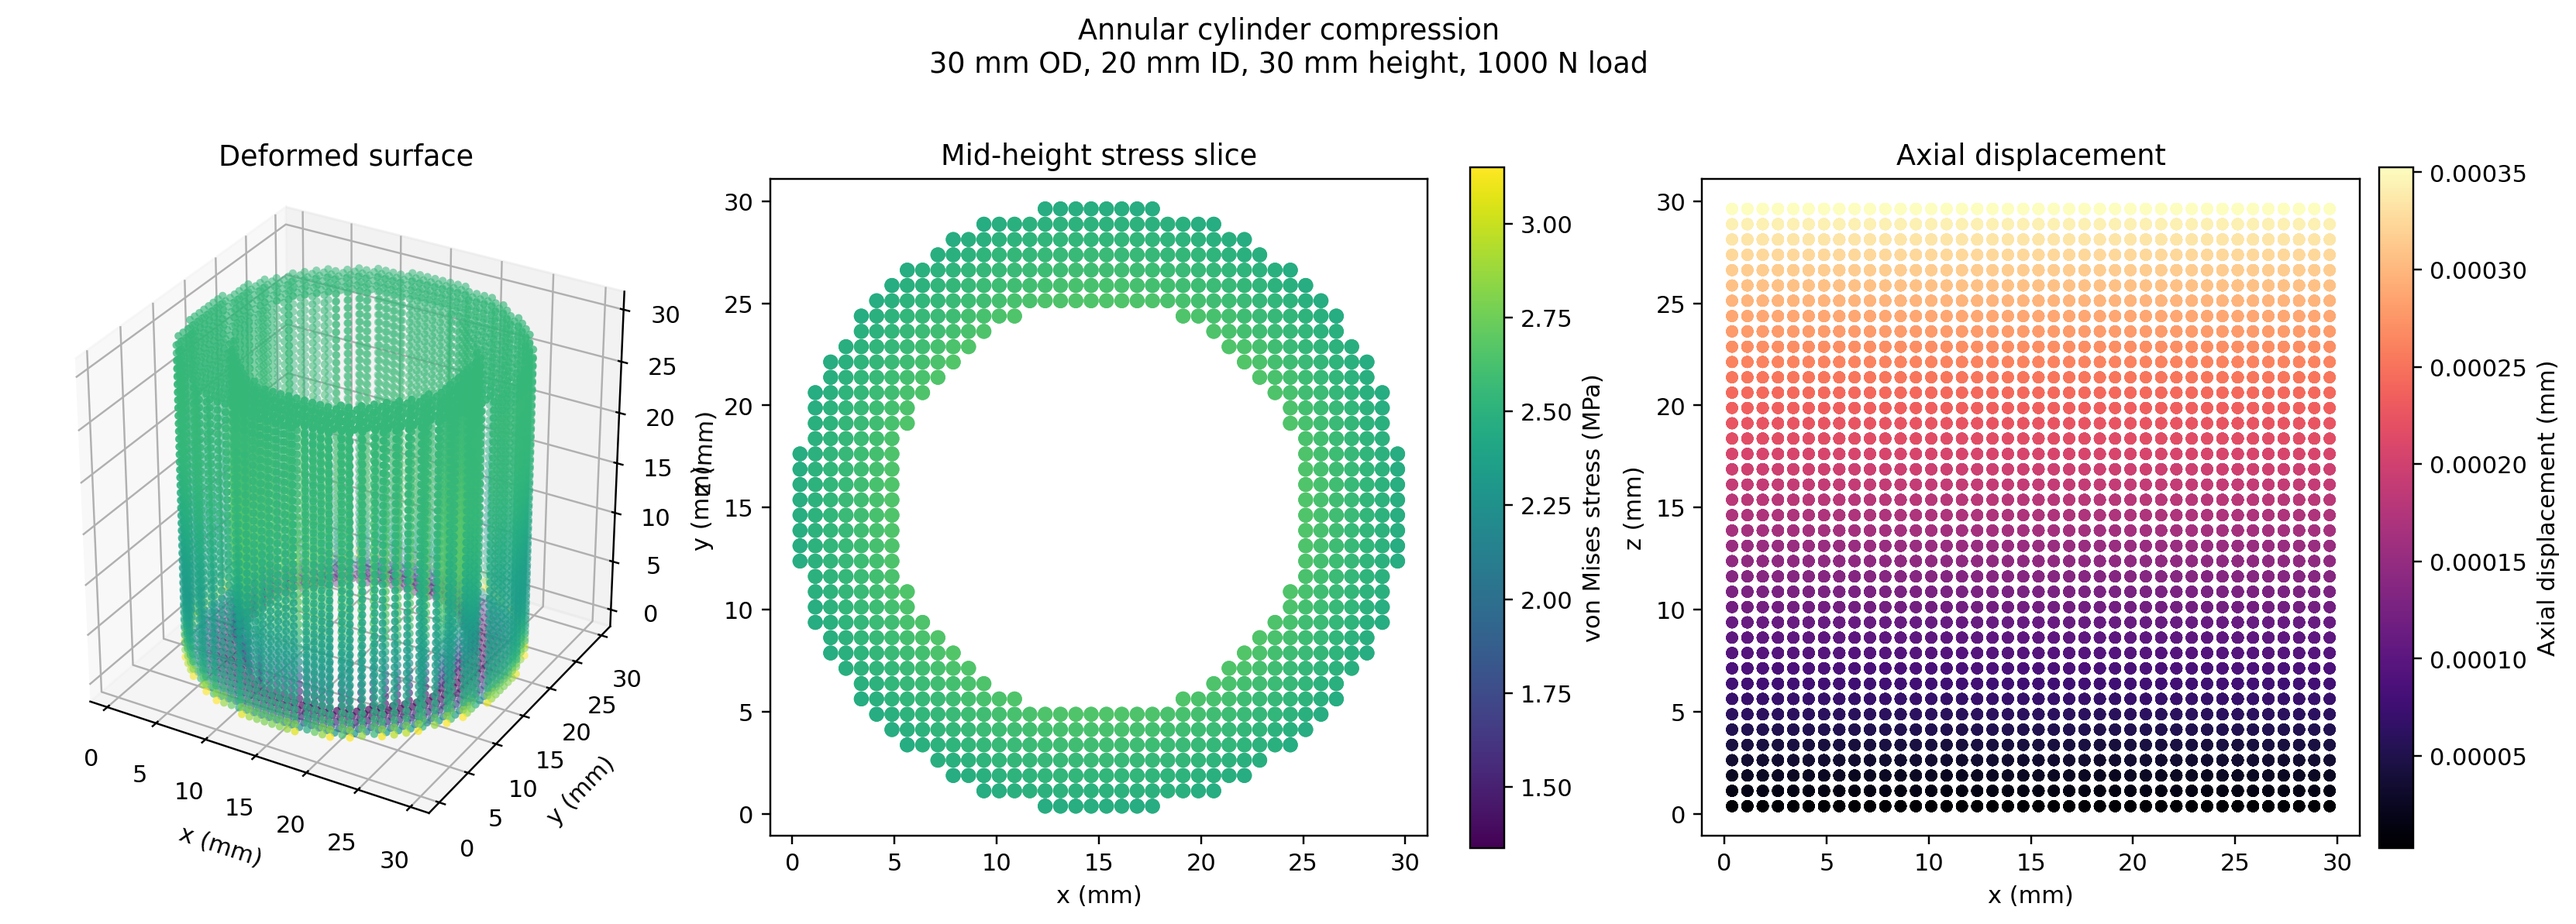
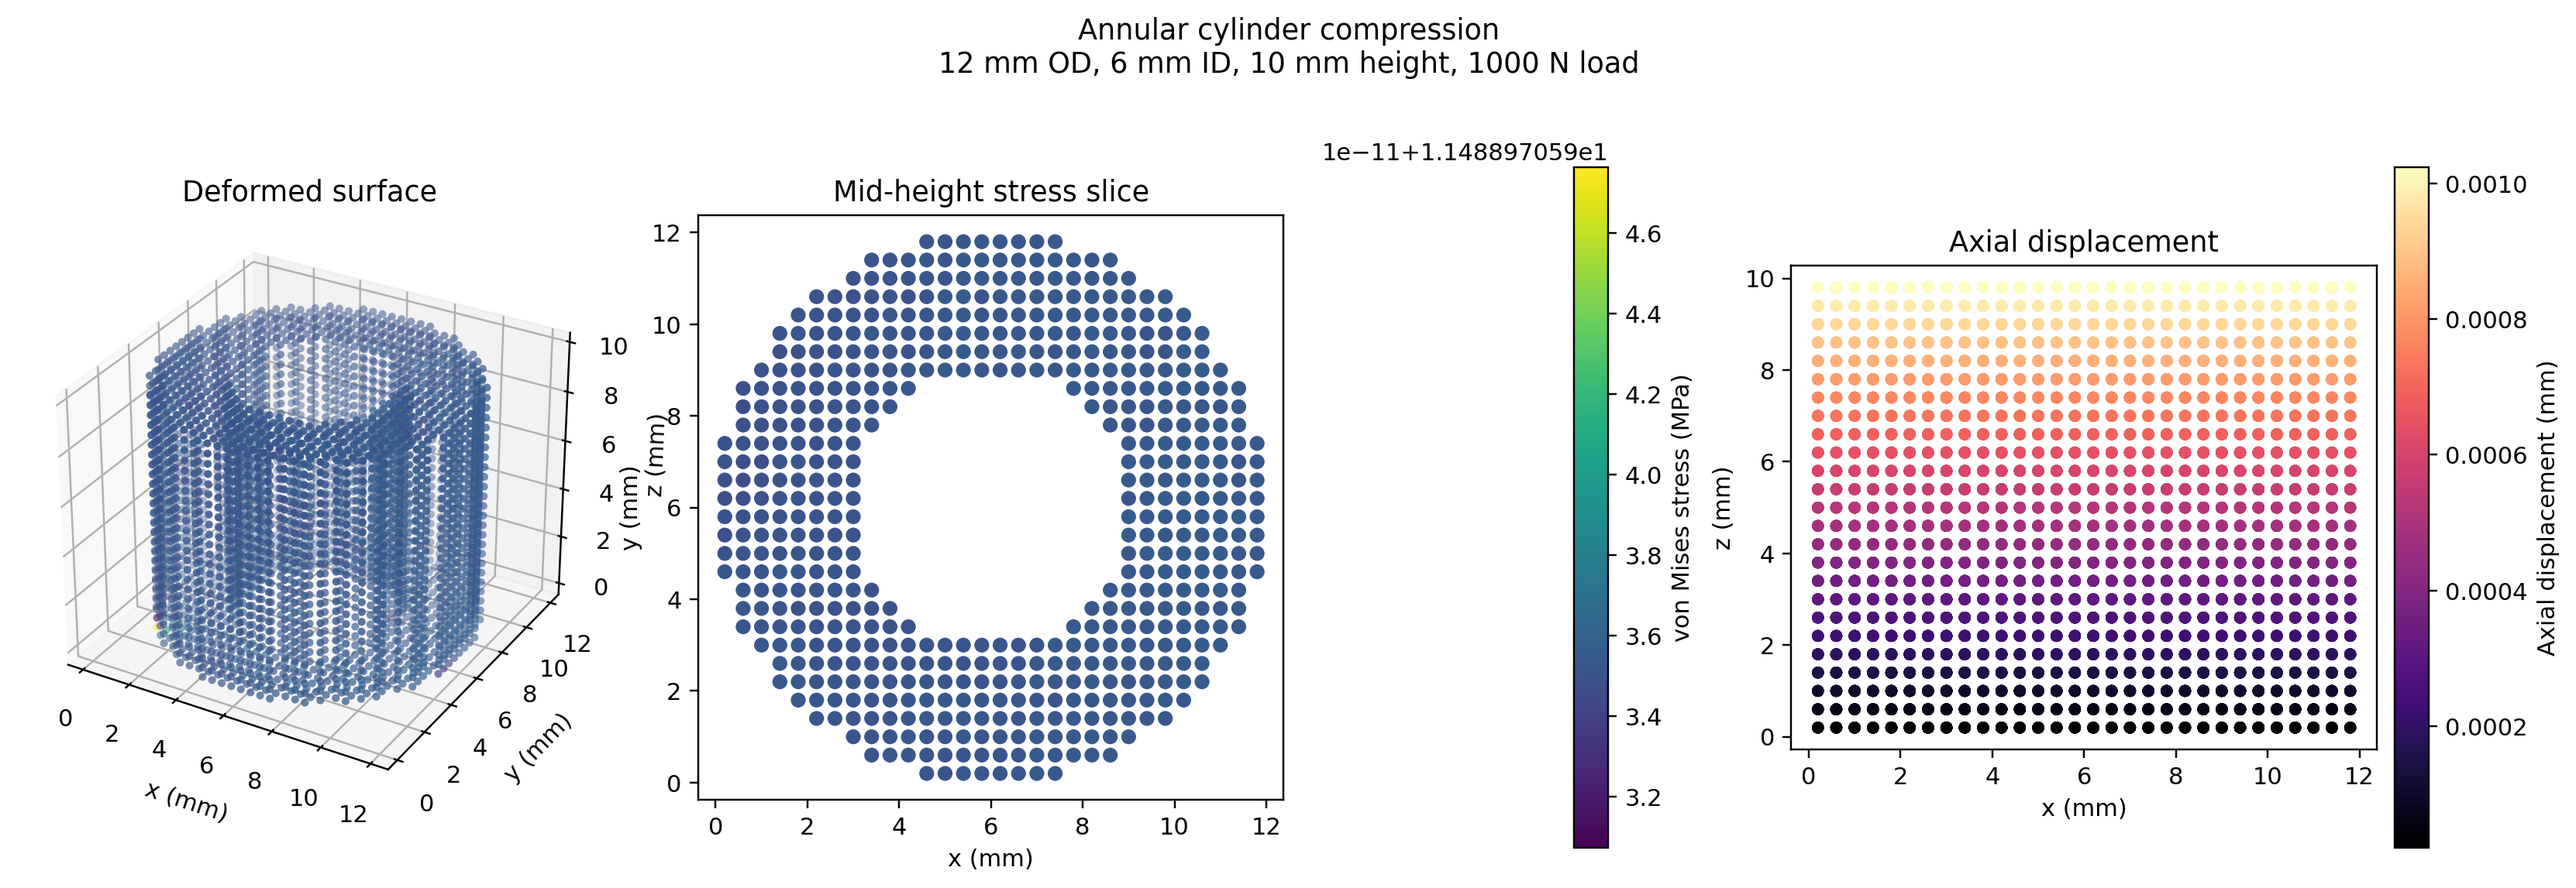
Add error handling to fem-analysis CLI and update cage geometry
- Wrap run_annular_cylinder_demo in try/except so solver crashes print
  a traceback instead of silently exiting
- Update default FEA target to lumbar cage geometry: OD=12mm, ID=6mm, H=10mm

diff --git a/src/fem_analysis/cli.py b/src/fem_analysis/cli.py
@@ -155,16 +155,24 @@ def build_annular_cylinder_config(args: argparse.Namespace) -> AnnularCylinderCo
 
 
 def handle_annular_cylinder(args: argparse.Namespace) -> None:
+    import traceback
+
     started_at = time.perf_counter()
 
     def progress(message: str) -> None:
         elapsed_s = time.perf_counter() - started_at
         print(f"[fem-analysis {elapsed_s:7.1f}s] {message}", flush=True)
 
-    summary = run_annular_cylinder_demo(
-        build_annular_cylinder_config(args),
-        progress=progress,
-    )
+    try:
+        summary = run_annular_cylinder_demo(
+            build_annular_cylinder_config(args),
+            progress=progress,
+        )
+    except Exception:
+        elapsed_s = time.perf_counter() - started_at
+        print(f"[fem-analysis {elapsed_s:7.1f}s] ERROR: analysis failed", flush=True)
+        traceback.print_exc()
+        sys.exit(1)
     print(
         f"Saved annular-cylinder FEA to {summary.image_path.resolve()}, {summary.json_path.resolve()}, "
         f"and {summary.npz_path.resolve()} "
